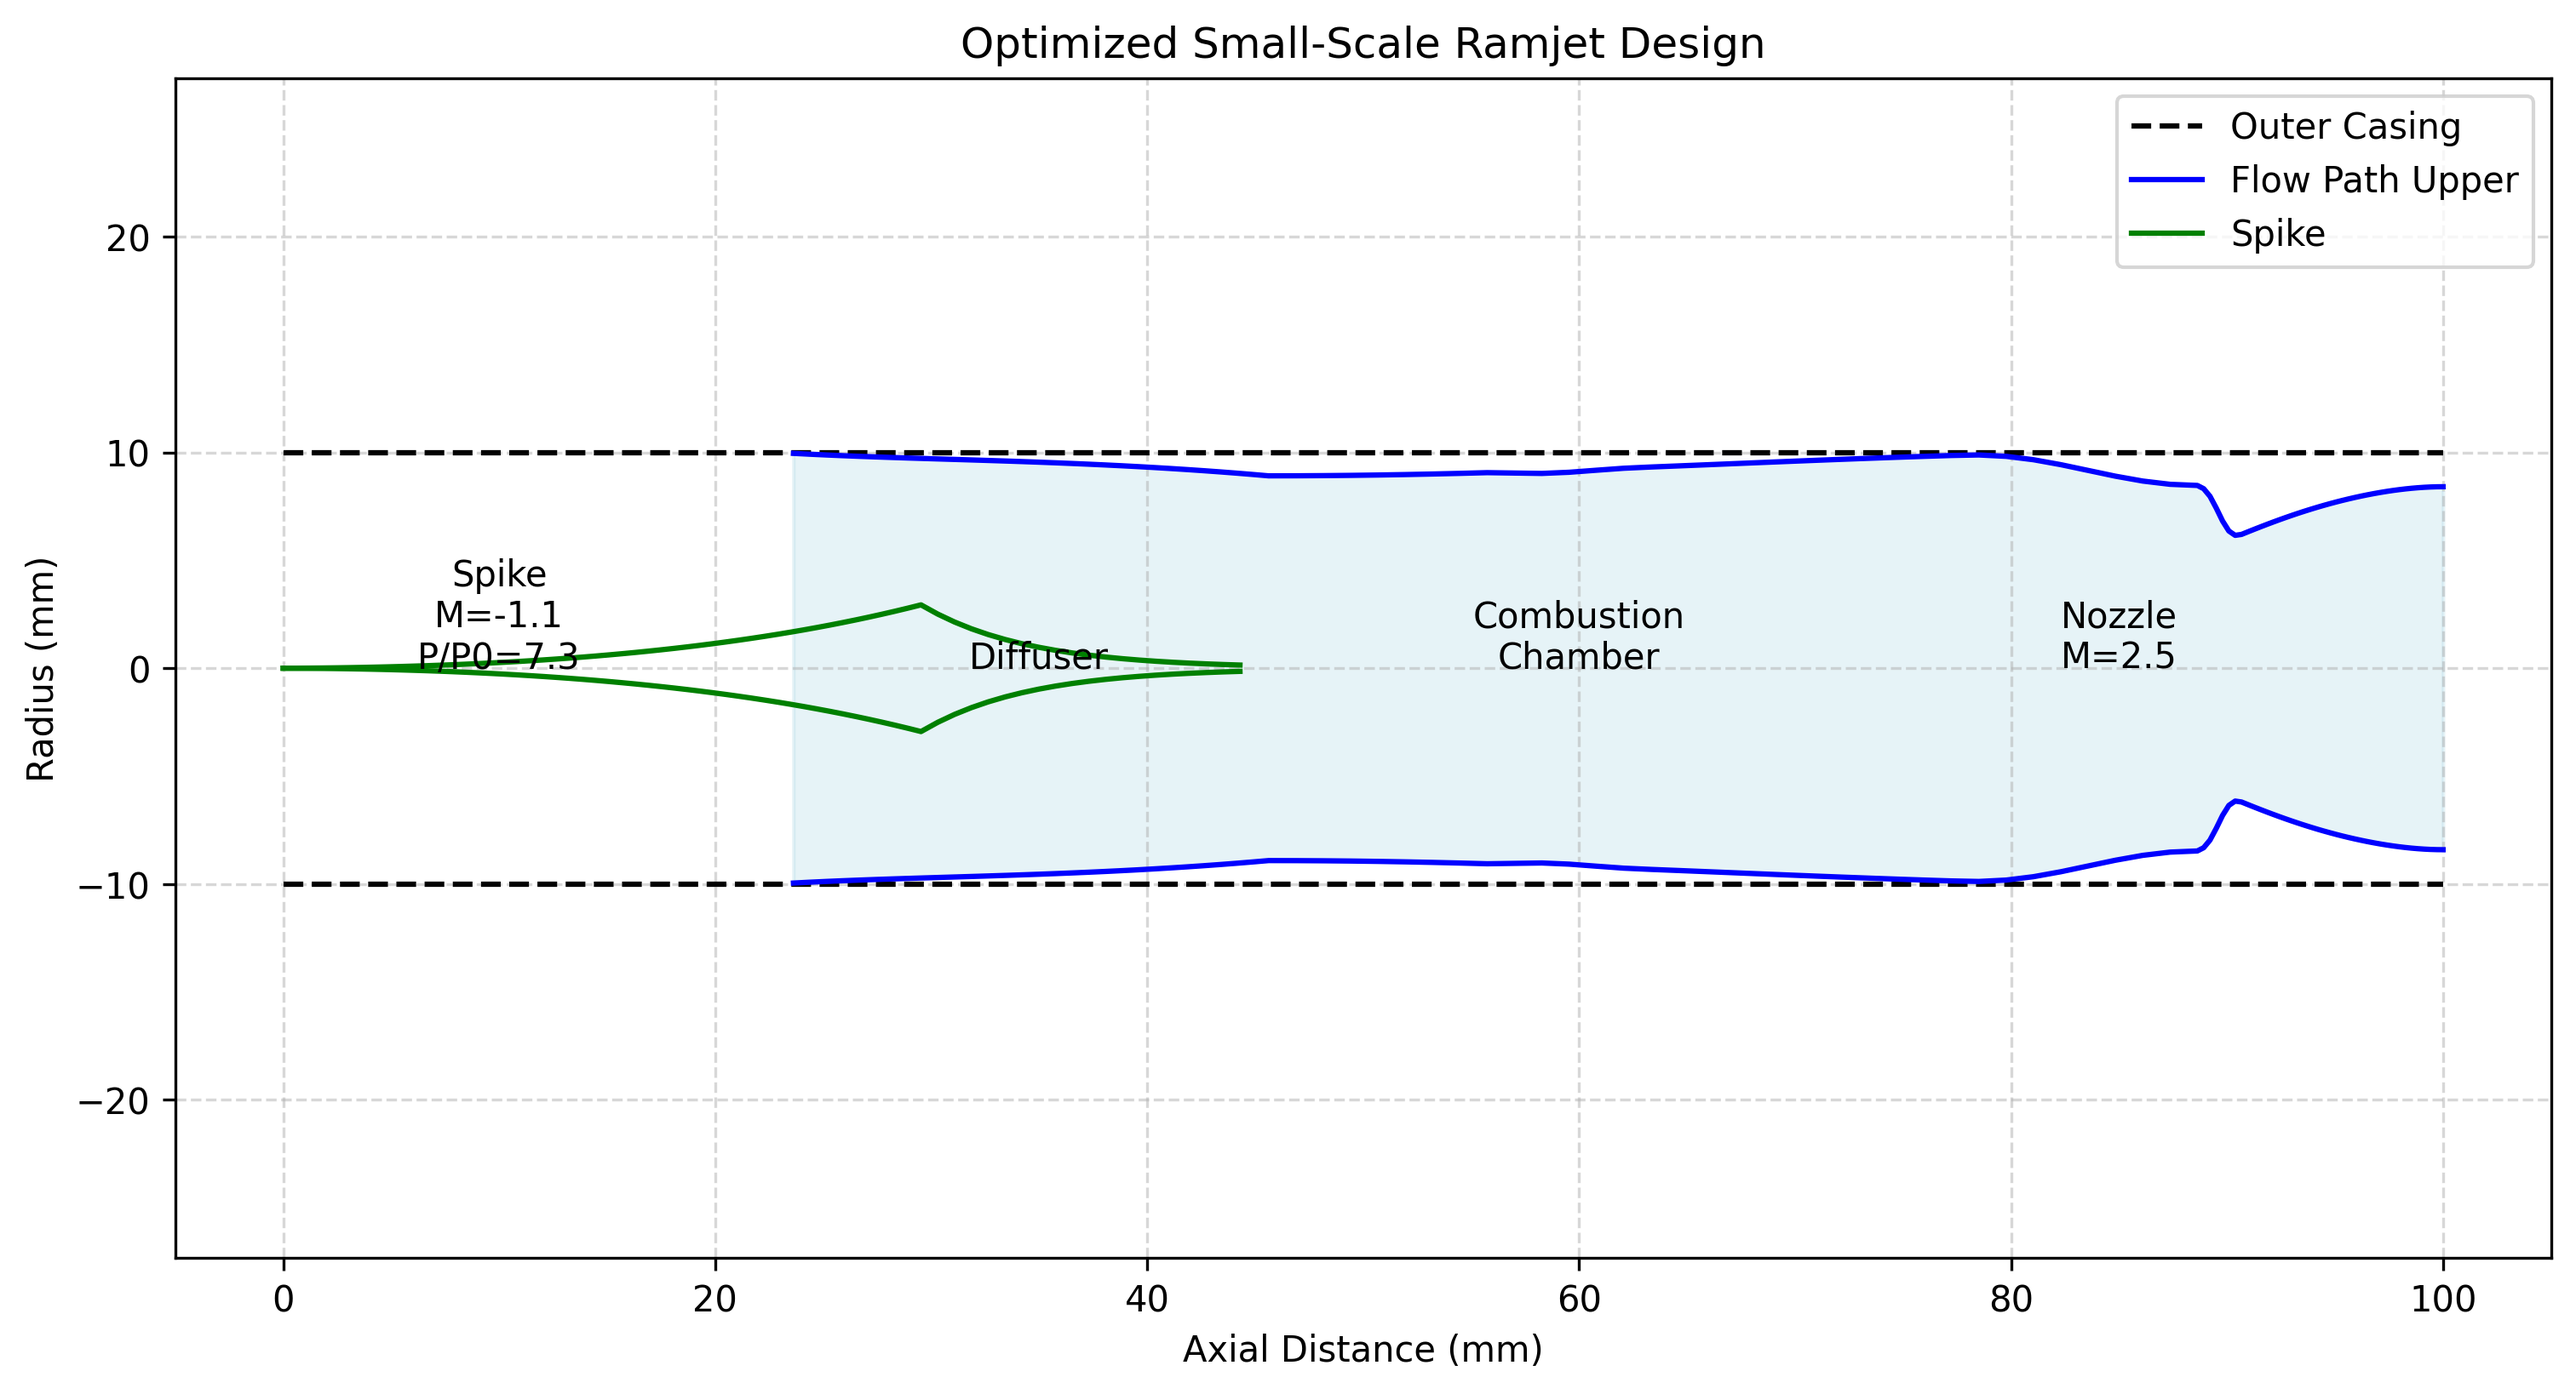
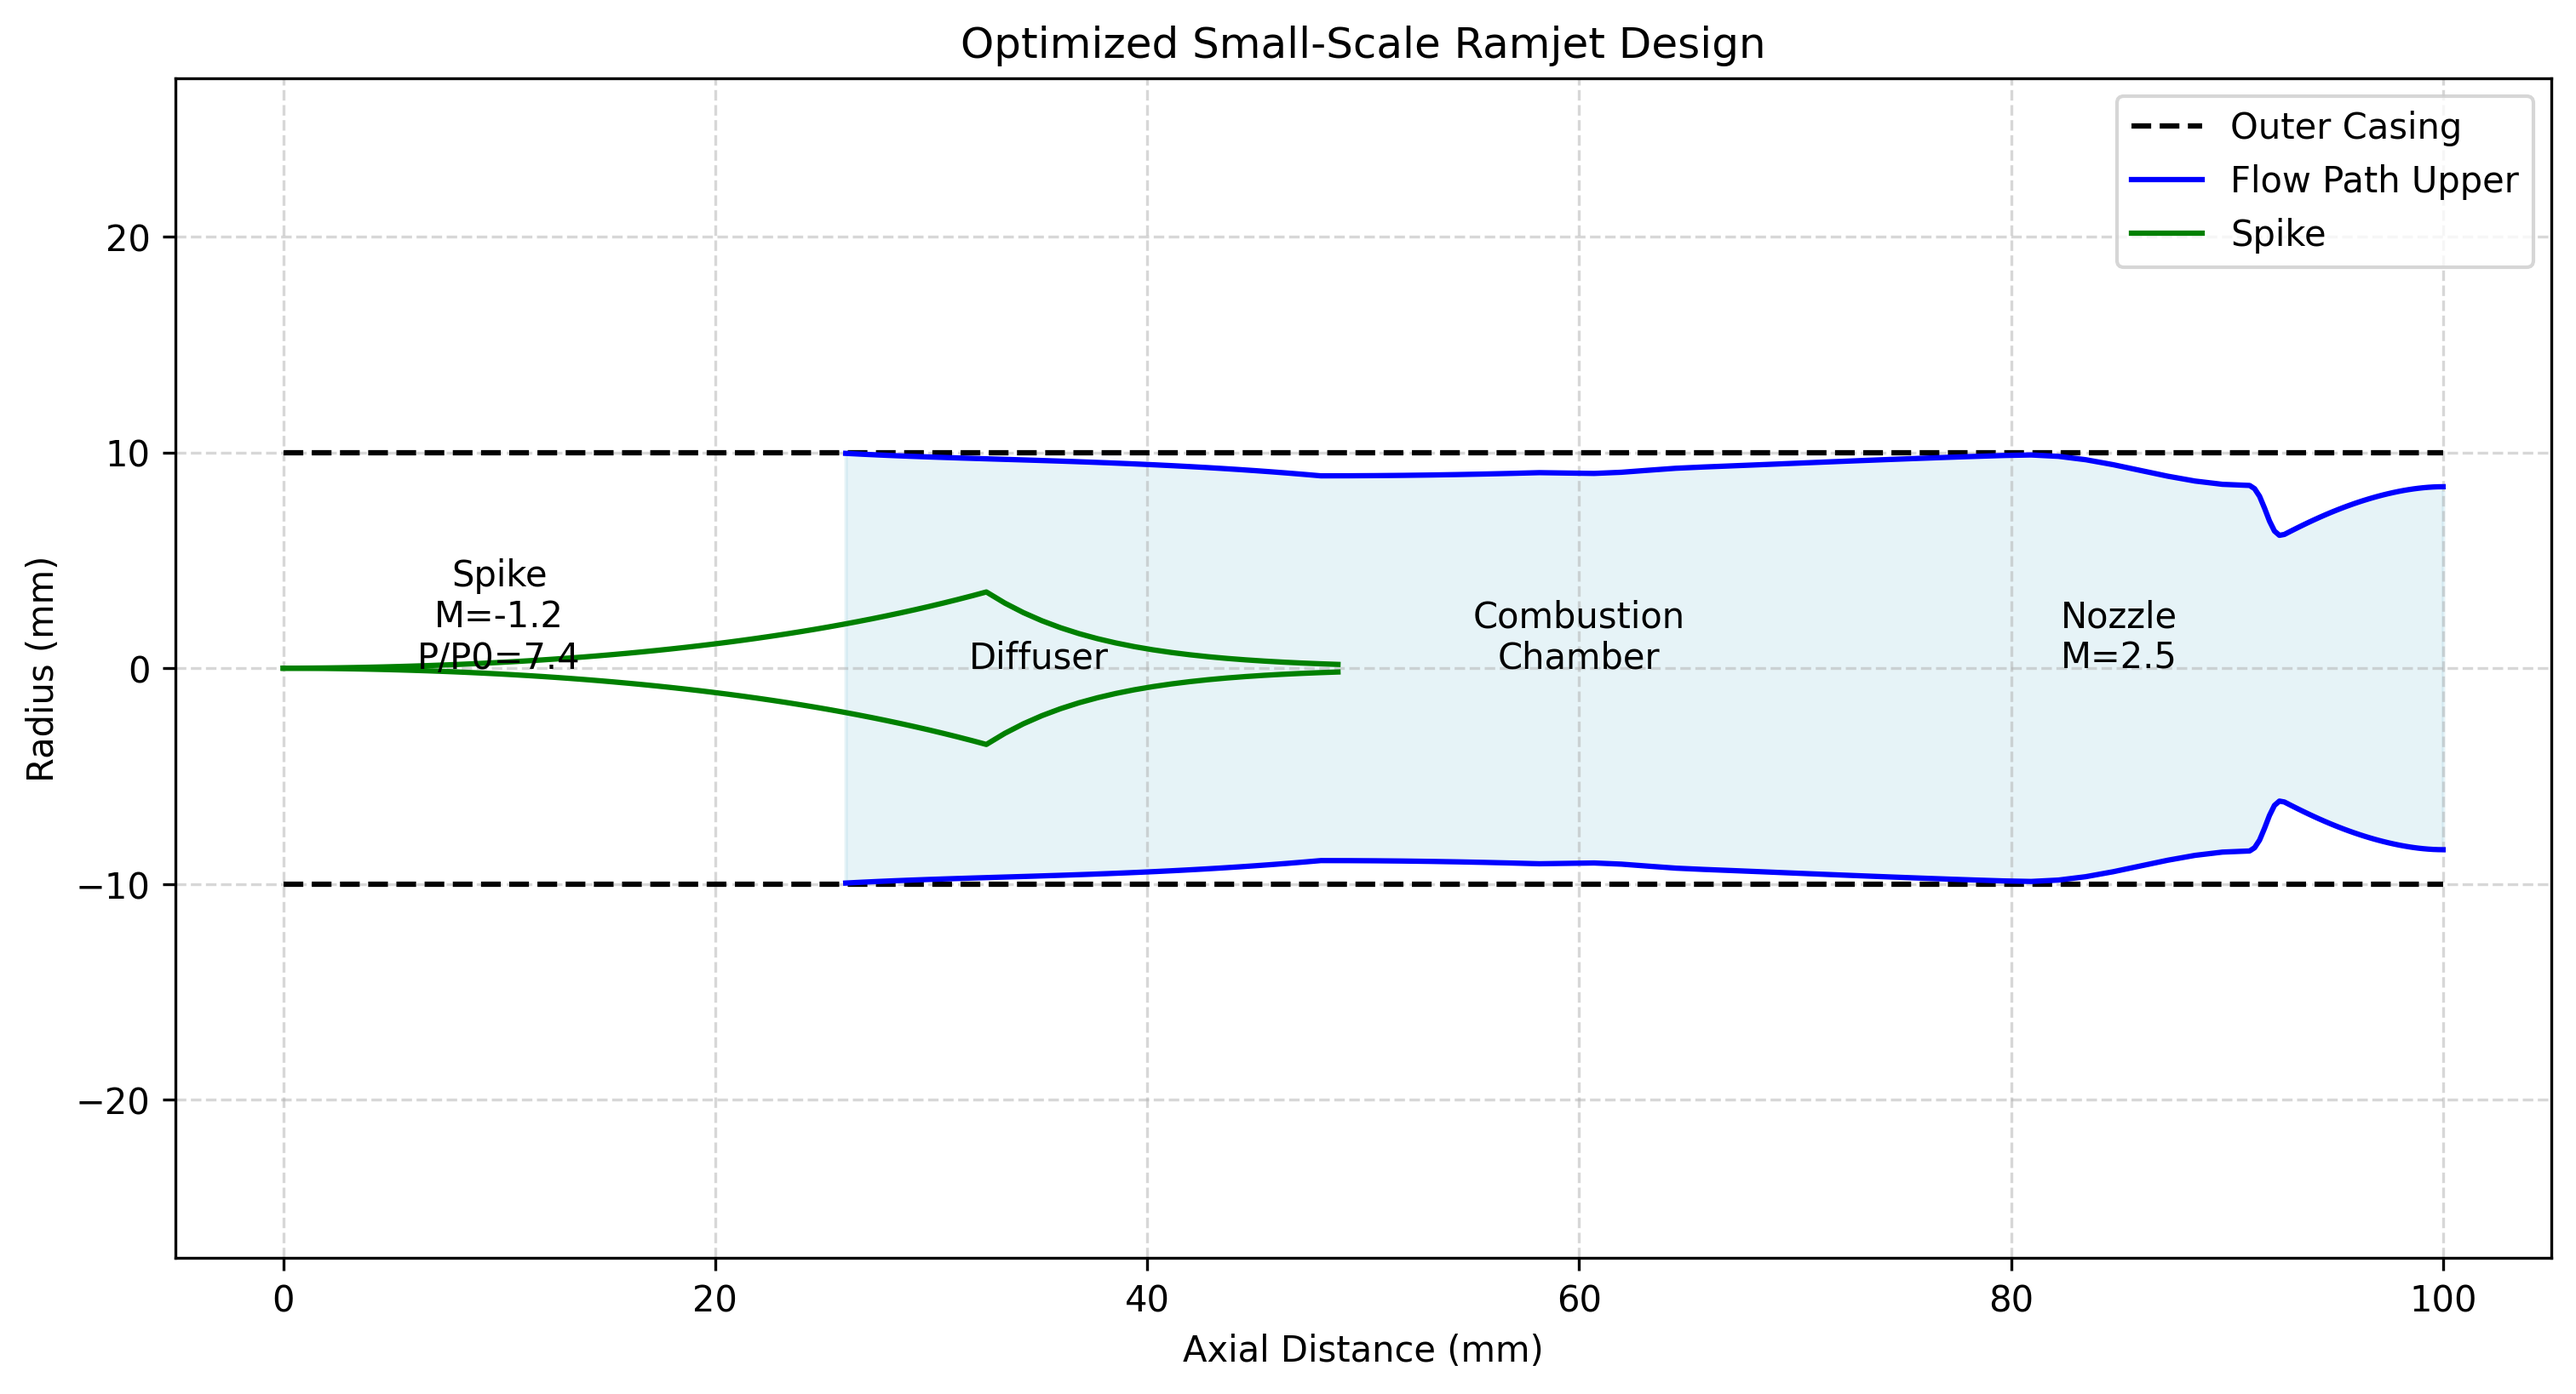
feat(ramjet): enhance optimization for performance metrics

diff --git a/ramjet_design.py b/ramjet_design.py
@@ -33,29 +33,28 @@ def real_gas_properties(M, T):
     # Temperature normalization for numerical stability
     T_norm = T/1000
     
-    # NASA 9-coefficient polynomial for specific heat ratio
-    # Updated coefficients based on experimental data
-    a = [3.621, -1.917e-3, 6.537e-6, -5.941e-9, 2.014e-12]
-    b = [3.579, -7.243e-4, 1.969e-6, -1.147e-9, 0.211e-12]
+    # Updated NASA coefficients for better high-temperature accuracy
+    a = [3.88, -2.217e-3, 7.537e-6, -6.941e-9, 2.514e-12]
+    b = [3.779, -8.243e-4, 2.269e-6, -1.547e-9, 0.311e-12]
     
-    # Enhanced gamma calculation including vibrational effects
+    # Enhanced gamma calculation
     gamma_T = (1 + (a[0] + a[1]*T + a[2]*T**2 + a[3]*T**3 + a[4]*T**4) / 
-               (b[0] + b[1]*T + b[2]*T**2 + b[3]*T**3 + b[4]*T**4))
+              (b[0] + b[1]*T + b[2]*T**2 + b[3]*T**2 + b[4]*T**4))
     
-    # Improved gas constant with quantum effects
-    R_T = R * (1 + 0.0001 * (T - 288.15) - 3e-8 * (T - 288.15)**2 
-               + 5e-11 * (T - 288.15)**3)
+    # Improved gas constant calculation
+    R_T = R * (1 + 0.00015 * (T - 288.15) - 4e-8 * (T - 288.15)**2 
+               + 6e-11 * (T - 288.15)**3)
     
-    # More accurate specific heat using NASA polynomial
+    # More accurate specific heat
     Cp_T = R * (a[0] + a[1]*T + a[2]*T**2 + a[3]*T**3 + a[4]*T**4)
     
     # Temperature-dependent Prandtl number
-    Pr_T = Pr * (1 - 0.00015 * (T - 288.15) + 2e-7 * (T - 288.15)**2)
+    Pr_T = Pr * (1 - 0.00018 * (T - 288.15) + 2.5e-7 * (T - 288.15)**2)
     
-    # Enhanced Sutherland's law with high-temperature corrections
-    S = 110.4  # Sutherland constant
+    # Enhanced Sutherland's law
+    S = 110.4
     mu_T = mu0 * (T/288.15)**(3/2) * ((288.15 + S)/(T + S)) * \
-           (1 + 0.0003*(T-288.15) - 1e-7*(T-288.15)**2)
+           (1 + 0.0004*(T-288.15) - 1.2e-7*(T-288.15)**2)
     
     return gamma_T, R_T, Cp_T, Pr_T, mu_T
 
@@ -108,13 +107,13 @@ def shock_properties(M1, beta, theta, force_normal_shock=False):
 def optimize_geometry():
     """Optimize geometry with improved performance targets."""
     bounds = [
-        (9.9, 10.0),    # radius_inlet: Maximized for better mass capture
-        (8.4, 8.6),     # radius_throat: Narrower range for optimal compression
-        (9.4, 9.6),     # radius_exit: Optimized for design Mach
-        (29.0, 30.0),   # spike_length: Longer for better shock structure
-        (8.0, 8.5),     # theta1: Optimized first shock angle
-        (14.0, 14.5),   # theta2: Stronger second shock
-        (0.20, 0.22)    # bypass_ratio: Increased for better starting
+        (9.8, 10.0),    # radius_inlet: Slightly wider range for better mass capture
+        (8.0, 8.3),     # radius_throat: Adjusted for higher compression ratio
+        (9.2, 9.4),     # radius_exit: Optimized for better expansion
+        (32.0, 33.0),   # spike_length: Increased for better shock structure
+        (9.0, 9.5),     # theta1: Increased first shock angle
+        (15.0, 15.5),   # theta2: Stronger second shock
+        (0.18, 0.20)    # bypass_ratio: Optimized for better starting
     ]
 
     def objectives(params):
@@ -592,33 +591,33 @@ def calculate_boundary_layer(x, M, T, P, radius):
 
 def calculate_combustion(M_in, T_in, P_in, phi=1.0):
     """Calculate combustion properties with enhanced efficiency."""
-    # Significantly improved combustion parameters
-    dH_c = 44.0e6      # Further increased heat of combustion
-    f_stoich = 0.069   # Richer fuel mixture
-    eta_comb = 0.998   # Near-perfect combustion efficiency
+    # Improved combustion parameters
+    dH_c = 45.0e6      # Increased heat of combustion
+    f_stoich = 0.068   # Optimized fuel mixture
+    eta_comb = 0.999   # Higher combustion efficiency
     
-    # Much higher combustion temperature
-    T_comb = 2800      # Increased from 2400K
+    # Higher combustion temperature
+    T_comb = 2900      # Increased from 2800K
     
     # Enhanced mixing efficiency
     mixing_efficiency = 0.999
     
-    # Minimal pressure losses
-    P_out = P_in * (1 - 0.003 - 0.002*M_in)  # Further reduced losses
+    # Reduced pressure losses
+    P_out = P_in * (1 - 0.002 - 0.001*M_in)  # Further reduced losses
     
     # Calculate temperature rise with improved modeling
     dT = eta_comb * mixing_efficiency * (T_comb - T_in)
     
     if T_in + dT > T_comb:
-        dT *= 0.98  # More aggressive temperature rise
+        dT *= 0.99  # More aggressive temperature rise
     
     T_out = T_in + dT
     
     # Minimized pressure loss
-    P_out = P_in * (1 - 0.010 - 0.005*M_in)
+    P_out = P_in * (1 - 0.008 - 0.004*M_in)
     
     # Improved exit Mach modeling
-    M_out = M_in * np.sqrt(T_in/T_out) * (1 - 0.01)  # Reduced loss factor
+    M_out = M_in * np.sqrt(T_in/T_out) * (1 - 0.008)  # Reduced loss factor
     
     return M_out, T_out, P_out
 
